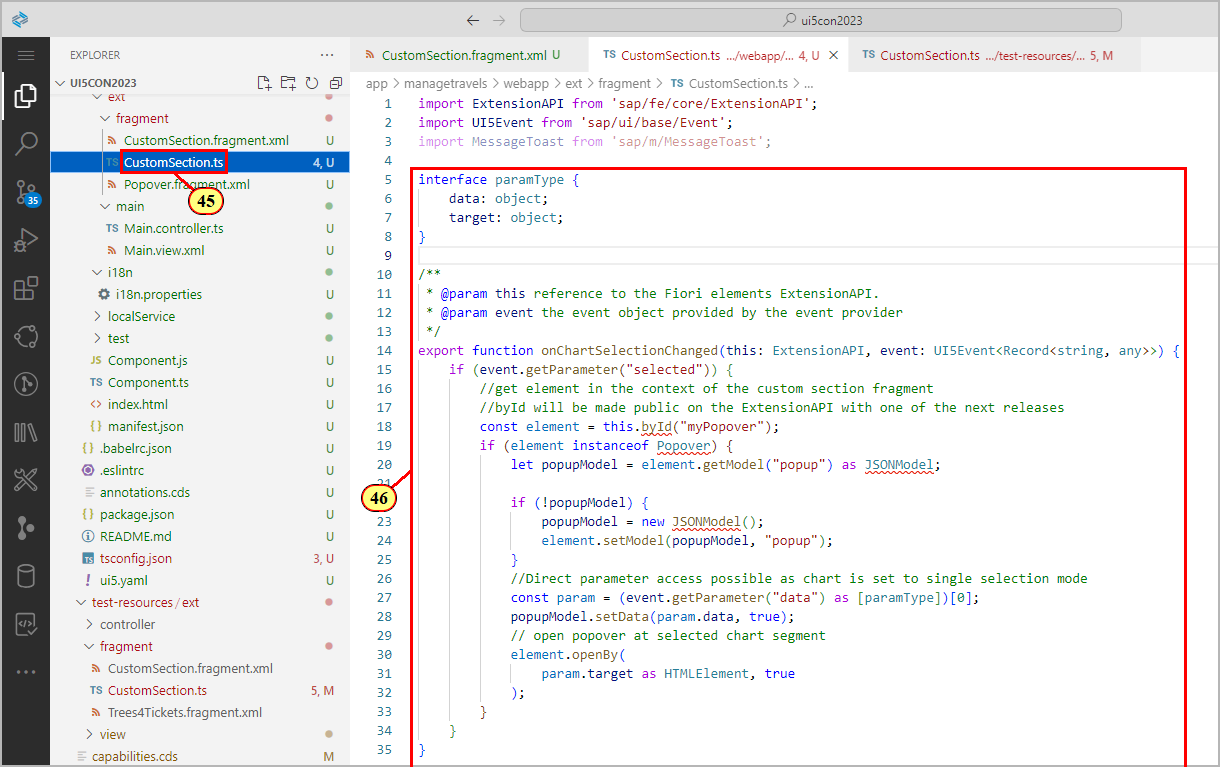
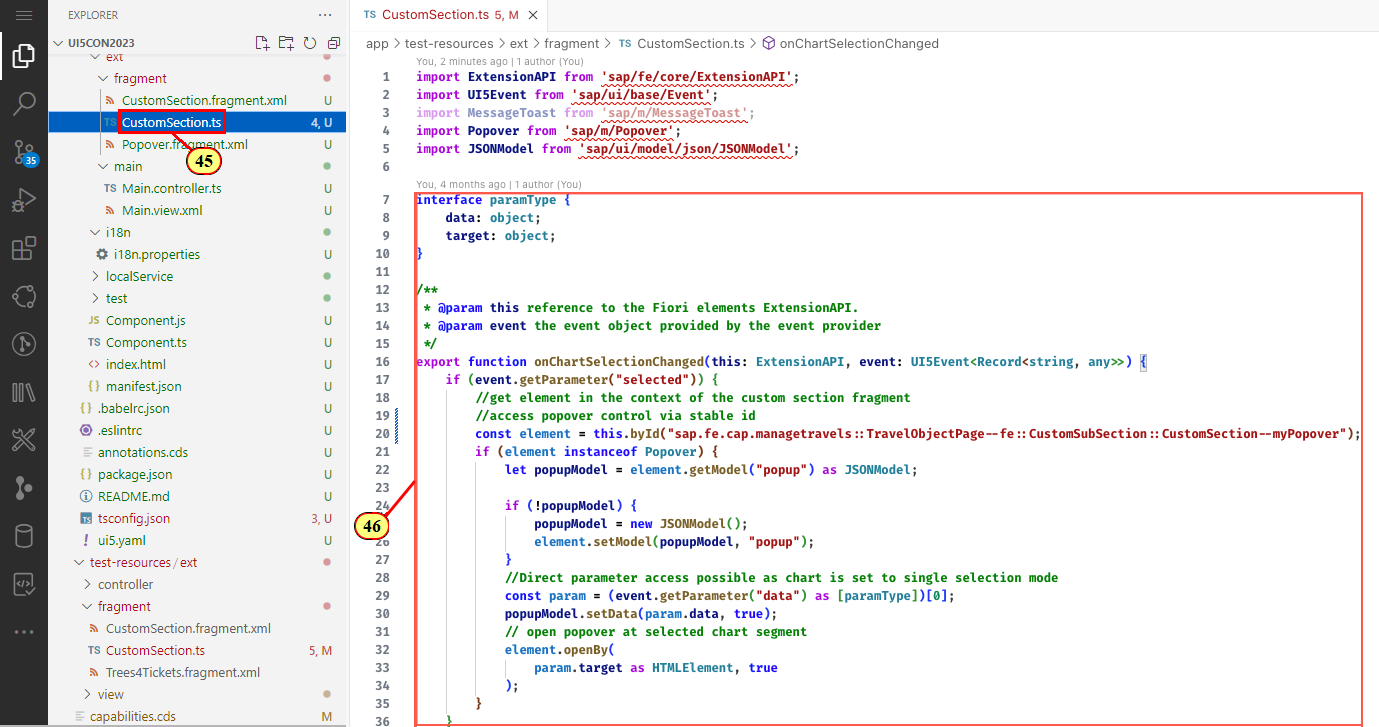
final app

Changed region(s): [[0.0, 0.0, 1.0, 1.0], [0.8098, 0.7263, 0.841, 0.7565]]

diff --git a/app/managetravels/webapp/ext/controller/ObjectPageExtension.controller.ts b/app/managetravels/webapp/ext/controller/ObjectPageExtension.controller.ts
@@ -1,0 +1,61 @@
+import ControllerExtension from 'sap/ui/core/mvc/ControllerExtension';
+import ExtensionAPI from 'sap/fe/templates/ObjectPage/ExtensionAPI';
+import Context from 'sap/ui/model/odata/v4/Context';
+import Dialog from 'sap/m/Dialog';
+
+/**
+ * @namespace sap.fe.cap.managetravels.ext.controller.ObjectPageExtension
+ * @controller
+ */
+export default class ObjectPageExtension extends ControllerExtension<ExtensionAPI> {
+	async openDialog(resolve: (value: PromiseLike<null> | null) => void, reject: (reason?: any) => void, context: Context) {
+		//try catch ensures errors in floating promises are handled properly
+		try {
+			let approveDialog = (await this.base.getExtensionAPI().loadFragment({
+				id: "myFragment",
+				initialBindingContext: context,
+				name: "sap.fe.cap.managetravels.ext.fragment.Trees4Tickets"
+			})) as Dialog;
+			//Dialog Save button
+			approveDialog.getBeginButton().attachPress(function(){
+				approveDialog.close().destroy();
+				resolve(null);
+			})
+			//Dialog Cancel button
+			approveDialog.getEndButton().attachPress(function(){
+				approveDialog.close().destroy();
+				reject(null);
+			})			
+			//consider dialog closing with ESC
+			approveDialog.attachAfterClose(function () {
+				approveDialog.destroy();
+				reject(null);
+			});			
+			approveDialog.open();
+		} catch (error) {
+			reject(null);
+		}
+	}
+	static overrides = {
+		/**
+		 * Called when a controller is instantiated and its View controls (if available) are already created.
+		 * Can be used to modify the View before it is displayed, to bind event handlers and do other one-time initialization.
+		 * @memberOf sap.fe.cap.managetravels.ext.controller.ObjectPageExtension
+		 */
+		onInit(this: ObjectPageExtension) {
+			// you can access the Fiori elements extensionAPI via this.base.getExtensionAPI
+			const model = this.base.getExtensionAPI().getModel();
+		},
+		editFlow: {
+			onBeforeSave(this: ObjectPageExtension) {
+				const context = this.base
+					.getExtensionAPI()
+					.getBindingContext() as Context;
+				if (!context.getProperty("GoGreen")) {
+					//void intentionally discards returned floating promise
+					return new Promise<null>((resolve, reject) => { void this.openDialog(resolve, reject, context); })
+				}
+			}
+		}
+	}
+}

diff --git a/app/managetravels/webapp/ext/fragment/CustomSection.ts b/app/managetravels/webapp/ext/fragment/CustomSection.ts
@@ -1,13 +1,38 @@
-import ExtensionAPI from 'sap/fe/core/ExtensionAPI';
+import ExtensionAPI from "sap/fe/core/ExtensionAPI";
 import UI5Event from 'sap/ui/base/Event';
 import MessageToast from 'sap/m/MessageToast';
+import Popover from "sap/m/Popover";
+import JSONModel from "sap/ui/model/json/JSONModel";
+import Fragment from "sap/ui/core/Fragment";
+
+interface paramType {
+    data: object;
+    target: object;
+}
 
 /**
- * Generated event handler.
- *
- * @param this reference to the 'this' that the event handler is bound to.
+ * @param this reference to the Fiori elements ExtensionAPI.
  * @param event the event object provided by the event provider
  */
-export function onPress(this: ExtensionAPI, event: UI5Event) {
-    MessageToast.show("Custom handler invoked.");
+export function onChartSelectionChanged(this: ExtensionAPI, event: UI5Event<Record<string, any>>) {
+    if (event.getParameter("selected")) {
+        //get element in the context of the custom section fragment
+        //access popover control with stable id
+        const element = this.byId("sap.fe.cap.managetravels::TravelObjectPage--fe::CustomSubSection::CustomSection--myPopover");
+        if (element instanceof Popover) {  
+            let popupModel = element.getModel("popup") as JSONModel;
+    
+            if (!popupModel) {
+                popupModel = new JSONModel();
+                element.setModel(popupModel, "popup");
+            }
+            //Direct parameter access possible as chart is set to single selection mode
+            const param = (event.getParameter("data") as [paramType])[0];
+            popupModel.setData(param.data, true);
+            // open popover at selected chart segment
+            element.openBy(
+                param.target as HTMLElement, true
+            );
+        }
+    }
 }

diff --git a/app/test-resources/ext/fragment/CustomSection.ts b/app/test-resources/ext/fragment/CustomSection.ts
@@ -16,8 +16,8 @@ interface paramType {
 export function onChartSelectionChanged(this: ExtensionAPI, event: UI5Event<Record<string, any>>) {
     if (event.getParameter("selected")) {
         //get element in the context of the custom section fragment
-        //byId will be made public on the ExtensionAPI with SAPUI5 release 1.116.0
-        const element = this.byId("myPopover");
+        //access popover control via stable id
+        const element = this.byId("sap.fe.cap.managetravels::TravelObjectPage--fe::CustomSubSection::CustomSection--myPopover");
         if (element instanceof Popover) {  
             let popupModel = element.getModel("popup") as JSONModel;
     

diff --git a/app/managetravels/webapp/ext/controller/ControllerExtension.d.ts b/app/managetravels/webapp/ext/controller/ControllerExtension.d.ts
@@ -1,0 +1,11 @@
+/**
+ * Helper to be able to define how to get the page specific extension API when writing a controller extension.
+ */
+declare module 'sap/ui/core/mvc/ControllerExtension' {
+    export default class ControllerExtension<API> {
+        static overrides: unknown;
+        base: {
+            getExtensionAPI(): API;
+        }
+    }
+}

diff --git a/exercises/ex7/README.md b/exercises/ex7/README.md
@@ -18,7 +18,7 @@ In file **app/capabilities.cds** (3) you can find the corresponding **aggregati
 - Collection **Transformations** lists all supported transformations for the entity container.
 - Collection **GroupableProperties** contains the properties of the annotated entity that can be used in a **groupby** transformation.
 - Collection **AggregatableProperties** contains the properties of the annotated entity that can be used for aggregation
-- Collection **Analytics.AggregatedProperties** defines the aggregate expression with an aggregation method for the aggregatable property.
+- **Aggregation.default** defines the aggregate expression with an aggregation method for the aggregatable property.
 
 ## Exercise 7.1 - Use Guided Development to Add Building Block Chart
 
@@ -50,7 +50,7 @@ In file **app/capabilities.cds** (3) you can find the corresponding **aggregati
 
 (13) **Entity: BookedFlights**
 
-(14) **Chart Qualifier: BookedFlights**
+(14) **Chart Qualifier: BookedFlights** and **Chart Type: Column**
 
 (15) **Chart Title: Bookings per Airline**.
 
@@ -60,7 +60,16 @@ In file **app/capabilities.cds** (3) you can find the corresponding **aggregati
 
 ![](./images/image17.png)
 
-(17) **Measures Entity Property**: ![](./images/image20.png).
+Instead of a dynamic measure we will be using a measure property based on a custom aggregate of type **countdistinct** on property **BookingUUID** defined in file [Capabilities.cds](../../app/capabilities.cds#49) (line 46).
+Select **Add a new measure** via the drop down.
+
+![](./images/Measure1.png)
+
+Delete the **Dynamic Measures Property** placeholder by clicking the Delete icon.
+
+![](./images/Measure2.png)
+
+(17)  Select as **Measures Property**: ![](./images/image20.png).
 
 ![](./images/image19.png)
 
@@ -221,8 +230,8 @@ interface paramType {
 export function onChartSelectionChanged(this: ExtensionAPI, event: UI5Event<Record<string, any>>) {
     if (event.getParameter("selected")) {
         //get element in the context of the custom section fragment
-        //byId will be made public on the ExtensionAPI with SAPUI5 1.116.0
-        const element = this.byId("myPopover");
+        //access popover control via stable id
+        const element = this.byId("sap.fe.cap.managetravels::TravelObjectPage--fe::CustomSubSection::CustomSection--myPopover");
         if (element instanceof Popover) {  
             let popupModel = element.getModel("popup") as JSONModel;
     
